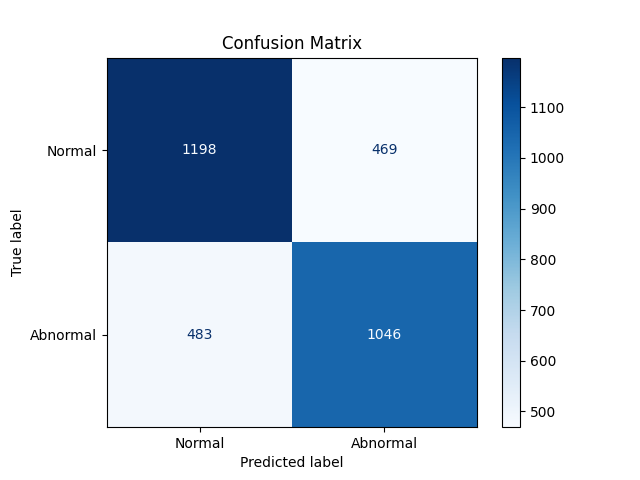
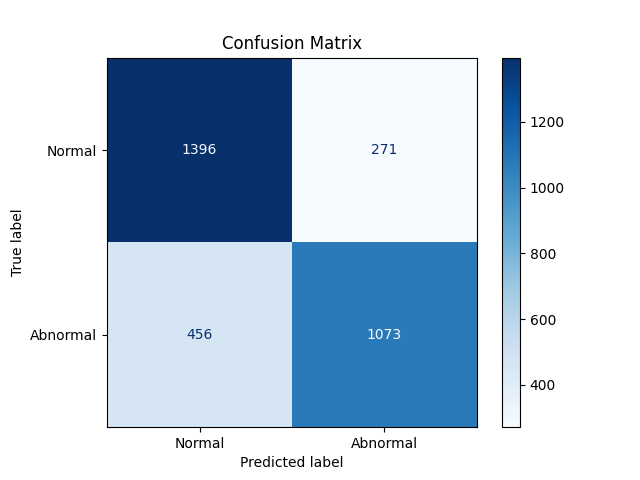
Refactor code structure for improved readability and maintainability
Increase training patience and update outputs

Raises the training patience from 5 to 50 to allow longer
training convergence. Updates generated output files,
including confusion matrix, ROC AUC curve, and training
curves, to reflect the new training results. Adds detailed
training logs and final classification metrics for improved
analysis and reproducibility.

diff --git a/Dataset/CLASSIFIER 17-MAY-2025.PY b/Dataset/CLASSIFIER 17-MAY-2025.PY
@@ -260,7 +260,7 @@ def main():
     num_classes = 2
     learning_rate = 1e-4
     num_epochs = 50
-    patience = 5
+    patience = 50
     log_file = 'training_log.txt'
     plot_dir = 'plots'
 
